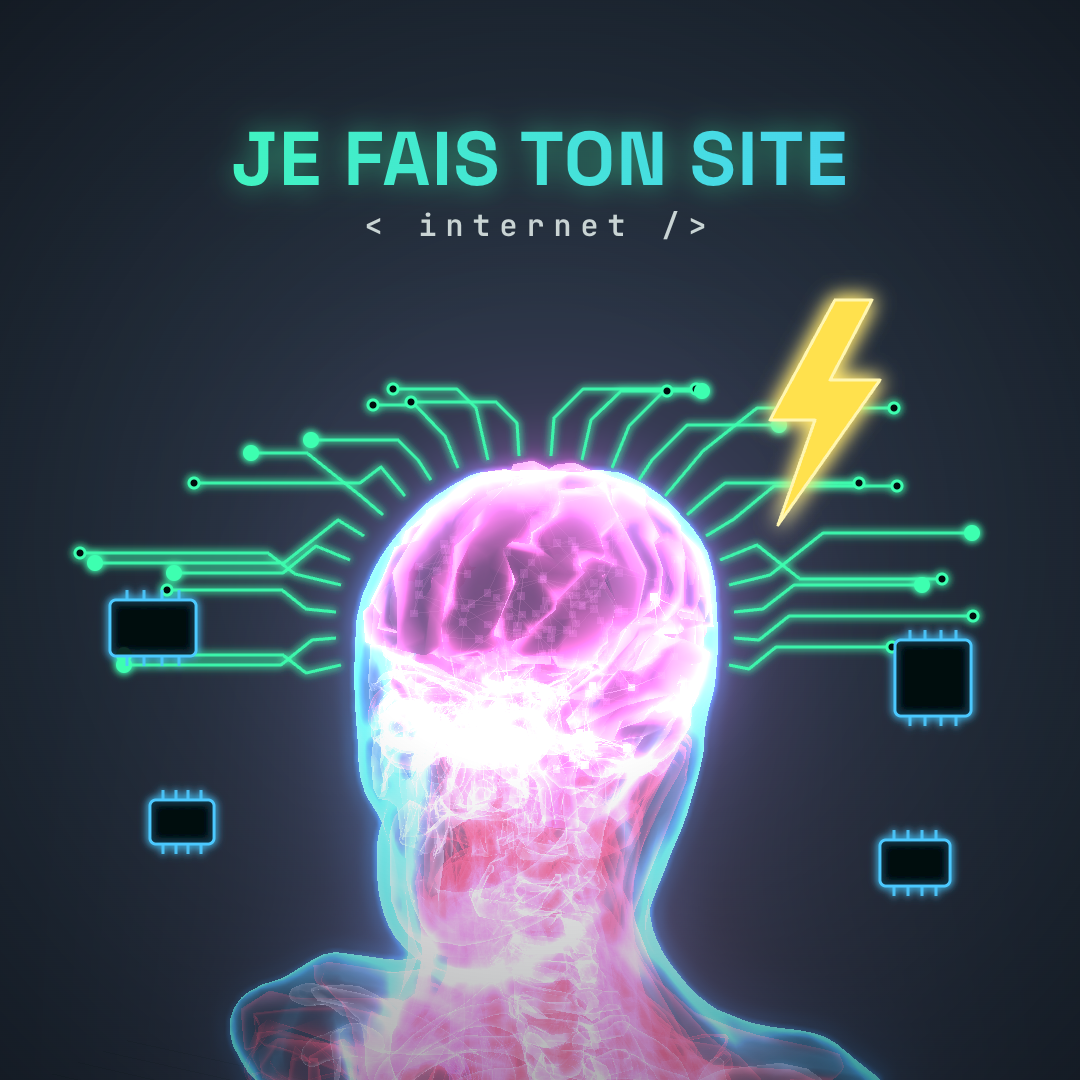
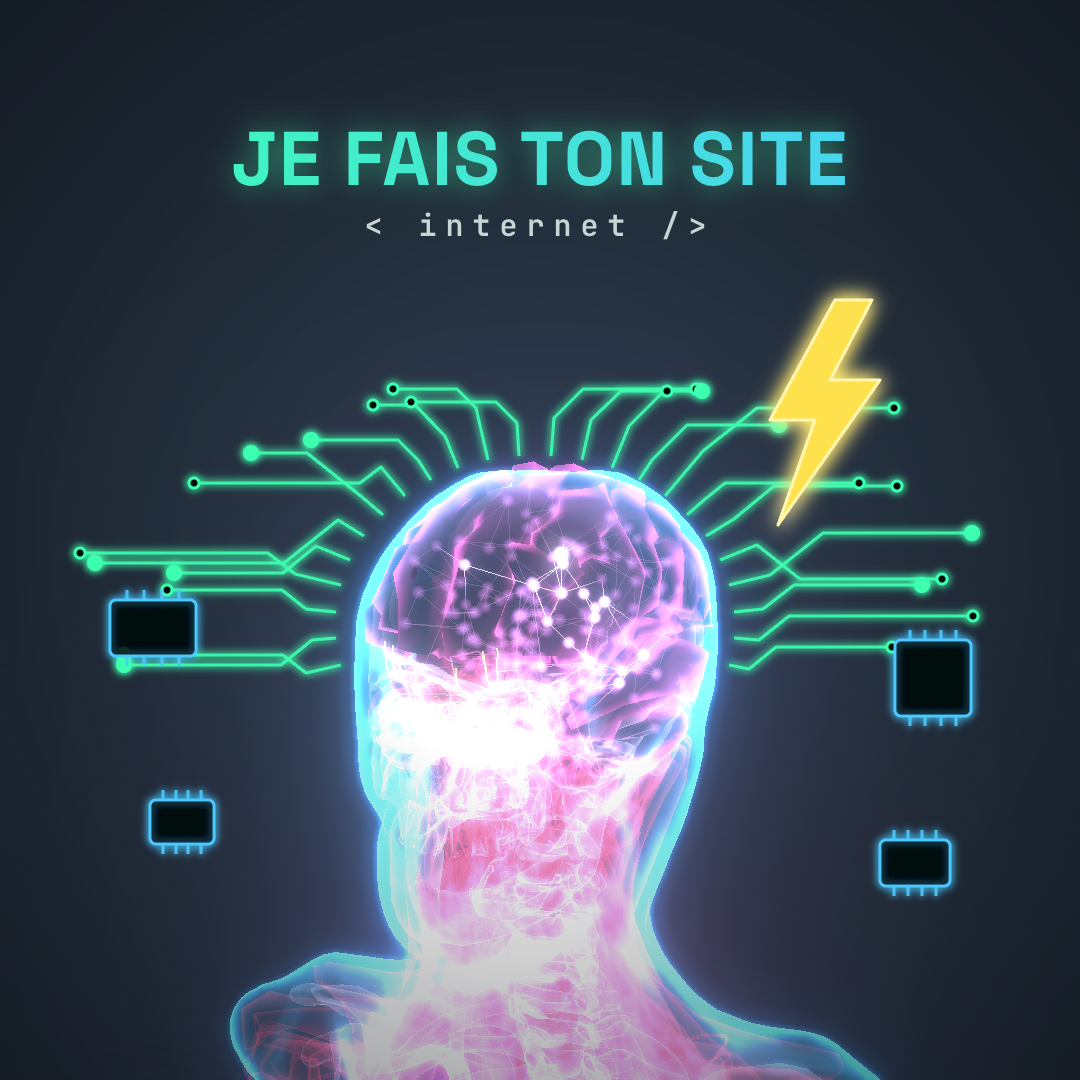
Tout bouge : sang qui part du cœur, influx entre neurones, balayage de la peau
Cerveau moins brillant, neurones ronds et visibles avec étincelles qui voyagent le long des connexions, circulation toujours visible.

Claude-Session: https://claude.ai/code/session_01PH7RtwZS3z4ke17evxFKtp

Changed region(s): [[0.2444, 0.3972, 0.7944, 1.0]]

diff --git a/body.js b/body.js
@@ -30,31 +30,35 @@ grid.material.transparent = true; grid.material.opacity = .25;
 scene.add(grid);
 
 // Matériau « verre néon » : transparent au centre, bords lumineux (effet de Fresnel)
-const neon = (color, { base = .05, power = 2.2, flow = 0 } = {}) => new THREE.ShaderMaterial({
+const neon = (color, { base = .05, power = 2.2, flow = 0, skin = 0 } = {}) => new THREE.ShaderMaterial({
   uniforms: { uColor: { value: new THREE.Color(color) }, uBase: { value: base }, uPow: { value: power },
-    uOn: { value: .3 }, uTime: { value: 0 }, uFlow: { value: flow } },
+    uOn: { value: .3 }, uTime: { value: 0 }, uFlow: { value: flow }, uSkin: { value: skin }, uScan: { value: 0 }, uSrc: { value: new THREE.Vector3() } },
   vertexShader: `varying vec3 vN; varying vec3 vV; varying vec3 vP;
     void main(){ vec4 w = modelMatrix * vec4(position,1.); vP = w.xyz;
       vN = normalize(mat3(modelMatrix) * normal); vV = normalize(cameraPosition - w.xyz);
       gl_Position = projectionMatrix * viewMatrix * w; }`,
-  fragmentShader: `uniform vec3 uColor; uniform float uBase, uPow, uOn, uTime, uFlow; varying vec3 vN; varying vec3 vV; varying vec3 vP;
+  fragmentShader: `uniform vec3 uColor; uniform float uBase, uPow, uOn, uTime, uFlow, uSkin, uScan; uniform vec3 uSrc; varying vec3 vN; varying vec3 vV; varying vec3 vP;
     void main(){ float f = pow(1. - abs(dot(normalize(vN), vV)), uPow);
-      float pulse = uFlow > 0. ? .55 + .9 * pow(.5 + .5 * sin(vP.y * 28. - uTime * 3.5), 6.) : 1.;
+      // sang / influx : des vagues partent du cœur (artères), y reviennent (veines), partent du cerveau (nerfs)
+      float pulse = uFlow != 0. ? .3 + 2.2 * pow(.5 + .5 * sin(length(vP - uSrc) * 42. - uTime * 5. * uFlow), 10.) : 1.;
       float a = (uBase + f) * uOn * pulse;
+      // peau : balayage holographique qui descend le long du corps + fines lignes de scan
+      if (uSkin > 0.) a += uOn * (exp(-pow((vP.y - uScan) * 16., 2.)) * (.25 + f) * 1.4 + .03 * step(.6, fract(vP.y * 160. - uTime)) * f);
       gl_FragColor = vec4(uColor * a, 1.); }`,
   transparent: true, blending: THREE.AdditiveBlending, depthWrite: false, side: THREE.DoubleSide
 });
 
 const STYLE = {
-  skin: ['#4cc9ff', { base: .01, power: 3 }], skeleton: ['#dfeaff', { base: .012, power: 2.2 }],
-  muscles: ['#ff4f6d', { base: .01, power: 2.4 }], brain: ['#ff7ad9', { base: .03, power: 1.6 }],
-  eyes: ['#7df9ff', { base: .08 }], heart: ['#ff2e55', { base: .03, power: 1.8 }], lungs: ['#7fa8ff', { base: .01, power: 2.4 }],
+  skin: ['#4cc9ff', { base: .015, power: 2.6, skin: 1 }], skeleton: ['#dfeaff', { base: .012, power: 2.2 }],
+  muscles: ['#ff4f6d', { base: .01, power: 2.4 }], brain: ['#ff7ad9', { base: .008, power: 2.2 }],
+  eyes: ['#7df9ff', { base: .01, power: 2.4 }], heart: ['#ff2e55', { base: .03, power: 1.8 }], lungs: ['#7fa8ff', { base: .01, power: 2.4 }],
   liver: ['#ff8c3a', { base: .02, power: 2.4 }], stomach: ['#ffd166', { base: .03, power: 2.2 }], kidneys: ['#c77dff', { base: .04, power: 2 }],
   intestines: ['#ff8fab', { base: .015, power: 2.4 }], arteries: ['#ff3355', { base: .1, power: 1.6, flow: 1 }],
-  veins: ['#3d7bff', { base: .1, power: 1.6, flow: 1 }], nerves: ['#f5ff6b', { base: .15, power: 1.4, flow: 1 }]
+  veins: ['#3d7bff', { base: .1, power: 1.6, flow: -1 }], nerves: ['#f5ff6b', { base: .15, power: 1.4, flow: 1 }]
 };
 
 // Chaque organe = une étape de la conception d'un site
+const FLOW = { arteries: .5, veins: .45, nerves: .35 };  // la circulation reste toujours visible
 const SOLID = ['brain', 'heart', 'liver', 'stomach', 'kidneys', 'intestines'];
 
 const S = [
@@ -76,7 +80,7 @@ const S = [
 
 const parts = {}, body = new THREE.Group();
 scene.add(body);
-let ready = false, neurons;
+let ready = false, neurons, scanRange = [0, 2];
 
 new GLTFLoader().setMeshoptDecoder(MeshoptDecoder).load('body.glb', gltf => {
   gltf.scene.traverse(o => {
@@ -101,6 +105,9 @@ new GLTFLoader().setMeshoptDecoder(MeshoptDecoder).load('body.glb', gltf => {
     if (s.fit) { s.d = size.y * 1.35; s.a = 0; s.c.y = size.y * .5; }
     s.anchor = s.c.clone();
   });
+  const hc = new THREE.Box3().setFromObject(parts.heart).getCenter(new THREE.Vector3()), bc = new THREE.Box3().setFromObject(parts.brain).getCenter(new THREE.Vector3());
+  parts.arteries.material.uniforms.uSrc.value.copy(hc); parts.veins.material.uniforms.uSrc.value.copy(hc); parts.nerves.material.uniforms.uSrc.value.copy(bc);
+  scanRange = [box.min.y, box.max.y];
   neurons = makeNeurons(parts.brain);
   ready = true;
   hudT.textContent = 'SCAN · ' + S[0].name.toUpperCase();
@@ -128,13 +135,24 @@ function makeNeurons(brain) {
   links.forEach((k, i) => pts[k].toArray(lp, i * 3));
   lg.setAttribute('position', new THREE.BufferAttribute(lp, 3)); lg.setAttribute('color', new THREE.BufferAttribute(lc, 3));
   const mat = { vertexColors: true, transparent: true, blending: THREE.AdditiveBlending, depthWrite: false, depthTest: false };
-  const P = new THREE.Points(pg, new THREE.PointsMaterial({ size: .012, ...mat })), L = new THREE.LineSegments(lg, new THREE.LineBasicMaterial(mat));
-  P.renderOrder = L.renderOrder = 3; body.add(P, L);
-  return { N, nb, links, pc, lc, pg, lg, t: new Float32Array(N).fill(-1e9) };
+  const cv = Object.assign(document.createElement('canvas'), { width: 64, height: 64 }), cx = cv.getContext('2d');
+  const gr = cx.createRadialGradient(32, 32, 0, 32, 32, 32); gr.addColorStop(0, '#fff'); gr.addColorStop(.3, 'rgba(255,255,255,.8)'); gr.addColorStop(1, 'rgba(255,255,255,0)');
+  cx.fillStyle = gr; cx.fillRect(0, 0, 64, 64);
+  const dot = new THREE.CanvasTexture(cv);  // points ronds et lumineux
+  const P = new THREE.Points(pg, new THREE.PointsMaterial({ size: .022, map: dot, ...mat })), L = new THREE.LineSegments(lg, new THREE.LineBasicMaterial(mat));
+  const SP = 400, sg = new THREE.BufferGeometry(), sp = new Float32Array(SP * 3).fill(99), sc = new Float32Array(SP * 3);
+  sg.setAttribute('position', new THREE.BufferAttribute(sp, 3)); sg.setAttribute('color', new THREE.BufferAttribute(sc, 3));
+  const Sk = new THREE.Points(sg, new THREE.PointsMaterial({ size: .02, map: dot, ...mat }));
+  P.renderOrder = L.renderOrder = Sk.renderOrder = 3; body.add(P, L, Sk);
+  return { N, nb, links, pc, lc, pg, lg, pts, sg, sp, sc, sparks: [], t: new Float32Array(N).fill(-1e9) };
 }
 function fire(i, now, depth) {
   if (now - neurons.t[i] < 600) return; neurons.t[i] = now;
-  if (depth > 0) neurons.nb[i].forEach(j => setTimeout(() => fire(j, performance.now(), depth - 1), 90 + Math.random() * 140));
+  if (depth > 0) neurons.nb[i].forEach(j => {
+    const dur = 90 + Math.random() * 140;
+    if (neurons.sparks.length < 400) neurons.sparks.push({ a: i, b: j, t0: now, dur });
+    setTimeout(() => fire(j, performance.now(), depth - 1), dur);
+  });
 }
 
 const cur = { c: new THREE.Vector3(0, .9, 0), d: 3, a: 0 }, mouse = { x: 0, y: 0 };
@@ -160,7 +178,7 @@ renderer.setAnimationLoop(now => {
     const k = Math.round(f), st = S[k];
     const lit = st.id === '*' ? null : st.id || ids[Math.floor(now / 1000) % ids.length];
     for (const [name, m] of Object.entries(parts)) {
-      const u = m.material.uniforms, on = name === 'skin' ? 1 : (!lit ? .8 : name === lit ? 1.3 : .1);
+      const u = m.material.uniforms, on = name === 'skin' ? 1 : (!lit ? .8 : name === lit ? (name === 'brain' ? .6 : 1.3) : FLOW[name] || .1);
       u.uOn.value += (on - u.uOn.value) * .08; u.uTime.value = now / 1000;
       const pop = name === st.id && !/skin|skeleton|muscles|arteries|nerves/.test(name) ? 1.15 : 1;
       m.userData.p = (m.userData.p || 1) + (pop - (m.userData.p || 1)) * .06;
@@ -169,10 +187,19 @@ renderer.setAnimationLoop(now => {
     }
 
     // neurones
-    if (now - lastFire > (st.id === 'brain' || st.id === 'nerves' ? 45 : 140)) { lastFire = now; fire(Math.random() * neurons.N | 0, now, 4); }
-    for (let n = 0; n < neurons.N; n++) { const g = Math.max(0, 1 - (now - neurons.t[n]) / 600); neurons.pc.set([1 * g + .06, .6 * g + .02, .9 * g + .06], n * 3); }
-    neurons.links.forEach((n, j) => { const g = Math.max(0, 1 - (now - neurons.t[n]) / 600) * .8 + .03; neurons.lc.set([g, g * .55, g * .9], j * 3); });
+    if (now - lastFire > (st.id === 'brain' || st.id === 'nerves' ? 30 : 110)) { lastFire = now; fire(Math.random() * neurons.N | 0, now, 4); }
+    for (let n = 0; n < neurons.N; n++) { const g = Math.max(0, 1 - (now - neurons.t[n]) / 600); neurons.pc.set([1.4 * g + .2, 1.1 * g + .08, 1.4 * g + .25], n * 3); }
+    neurons.links.forEach((n, j) => { const g = Math.max(0, 1 - (now - neurons.t[n]) / 600) * 1.1 + .07; neurons.lc.set([g * .9, g * .6, g], j * 3); });
     neurons.pg.attributes.color.needsUpdate = neurons.lg.attributes.color.needsUpdate = true;
+    neurons.sparks = neurons.sparks.filter(k => now - k.t0 < k.dur);
+    neurons.sp.fill(99);
+    neurons.sparks.forEach((k, j) => {
+      tmp.lerpVectors(neurons.pts[k.a], neurons.pts[k.b], (now - k.t0) / k.dur).toArray(neurons.sp, j * 3);
+      neurons.sc.set([1, .95, .7], j * 3);
+    });
+    neurons.sg.attributes.position.needsUpdate = neurons.sg.attributes.color.needsUpdate = true;
+    // balayage de la peau, de la tête aux pieds
+    parts.skin.material.uniforms.uScan.value = scanRange[1] - ((now / 4000) % 1.2) * (scanRange[1] - scanRange[0]);
 
     // étiquette : flèche vers l'organe + nom
     if (k !== last) { last = k; lStep.textContent = 'ÉTAPE ' + String(k).padStart(2, '0'); lName.textContent = st.name; lRole.textContent = '→ ' + st.role; type(st.sub); hudT.textContent = 'SCAN · ' + st.name.toUpperCase(); }
